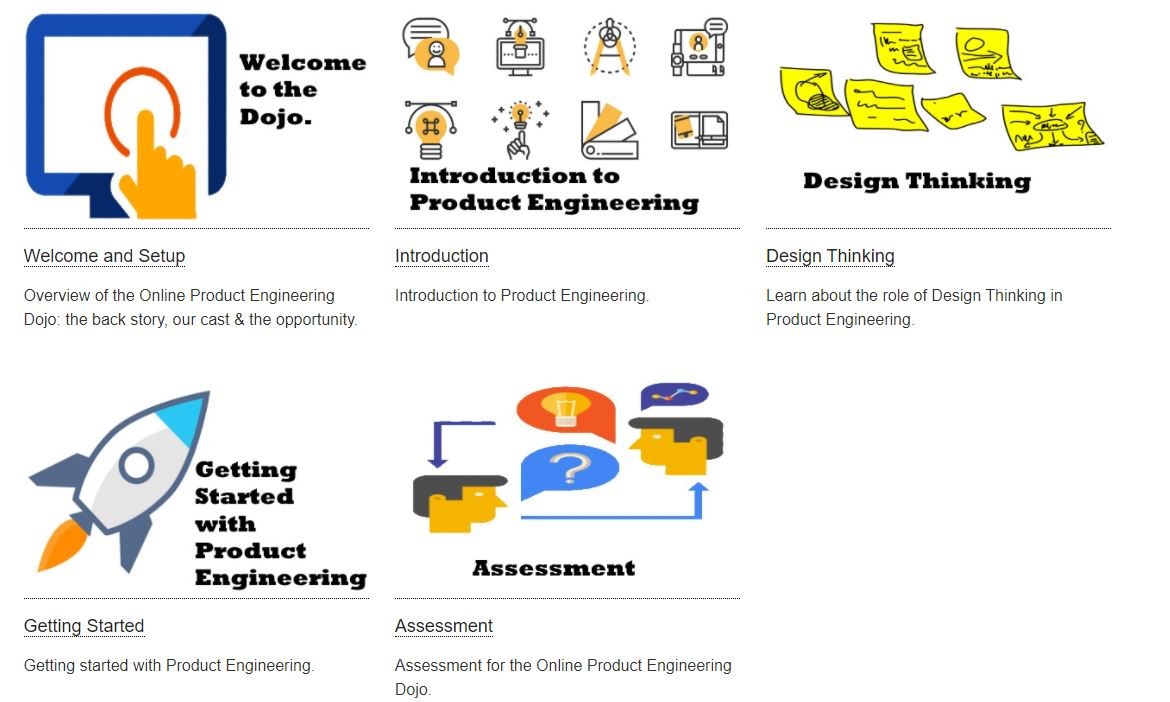
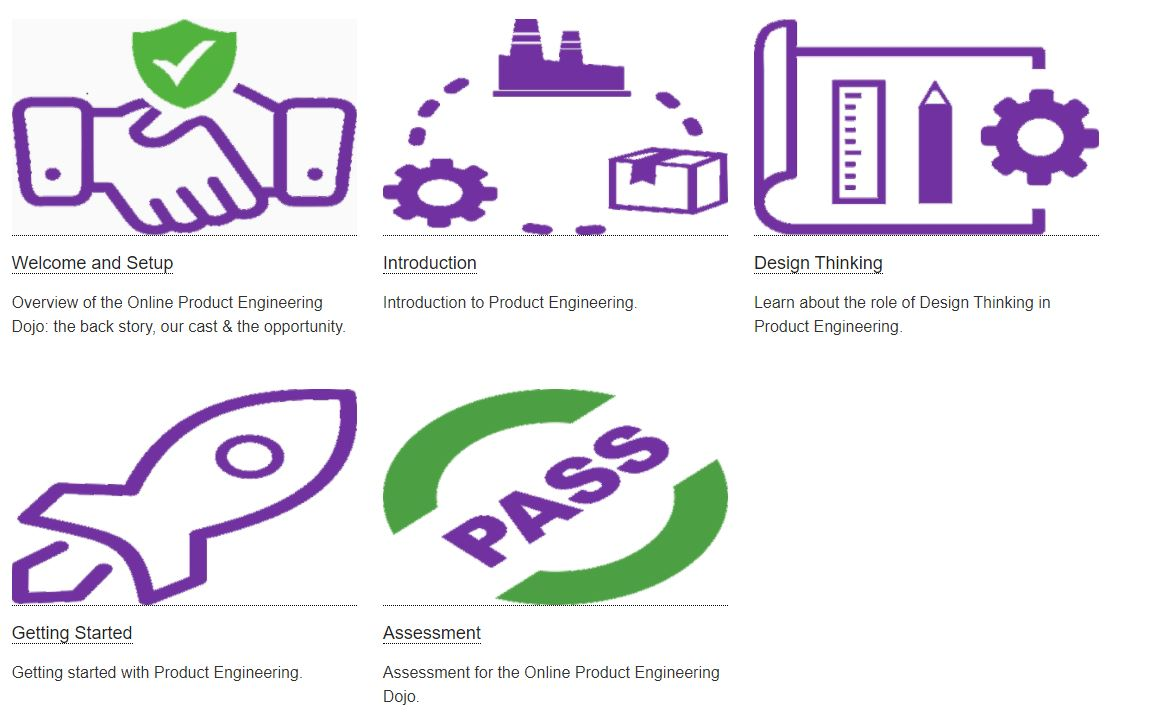
Fixed broken links (#4)
* Update and rename 2021-03-31-os1-welcome.md to 2021-03-31-pe1-welcome.md

* Update and rename 2021-03-31-os2-introduction.md to 2021-03-31-pe2-introduction.md

* Update and rename 2021-03-31-os3-design-thinking.md to 2021-03-31-pe3-design-thinking.md

* Update and rename 2021-03-31-os4-getting-started.md to 2021-03-31-pe4-getting-started.md

* Rename 2021-03-31-os5-assessment.md to 2021-03-31-pe5-assessment.md

* Delete modules.jpg

* Add files via upload

* Update README.md

diff --git a/_posts/modules/2021-03-31-pe1-welcome.md b/_posts/modules/2021-03-31-pe1-welcome.md
@@ -1,17 +1,17 @@
 ---
 layout: katacoda-fs
-title: "Design Thinking"
+title: "Welcome and Setup"
 categories: katacoda
-excerpt: "Learn about the role of Design Thinking in Product Engineering."
+excerpt: "Overview of the Online Product Engineering Dojo: the back story, our cast & the opportunity."
 tags: [online-pe-dojo]
 image:
-  teaser: design.thinking.png
+  teaser: welcome.png
 share: true
-order: 110
+order: 100
 walkthrough: false
 
-katacoda_scenario: design-thinking
-katacoda_next_scenario: os4-getting-started
+katacoda_scenario: welcome
+katacoda_next_scenario: pe2-introduction
 ---
 
 <script src="//katacoda.com/embed.js"></script>

diff --git a/_posts/modules/2021-03-31-pe4-getting-started.md b/_posts/modules/2021-03-31-pe4-getting-started.md
@@ -1,17 +1,17 @@
 ---
 layout: katacoda-fs
-title: "Welcome and Setup"
+title: "Getting Started"
 categories: katacoda
-excerpt: "Overview of the Online Product Engineering Dojo: the back story, our cast & the opportunity."
+excerpt: "Getting started with Product Engineering."
 tags: [online-pe-dojo]
 image:
-  teaser: welcome.png
+  teaser: getting.started.png
 share: true
-order: 100
+order: 120
 walkthrough: false
 
-katacoda_scenario: welcome
-katacoda_next_scenario: os2-introduction
+katacoda_scenario: getting-started
+katacoda_next_scenario: pe5-assignment
 ---
 
 <script src="//katacoda.com/embed.js"></script>

diff --git a/_posts/modules/2021-03-31-pe3-design-thinking.md b/_posts/modules/2021-03-31-pe3-design-thinking.md
@@ -1,17 +1,17 @@
 ---
 layout: katacoda-fs
-title: "Getting Started"
+title: "Design Thinking"
 categories: katacoda
-excerpt: "Getting started with Product Engineering."
+excerpt: "Learn about the role of Design Thinking in Product Engineering."
 tags: [online-pe-dojo]
 image:
-  teaser: getting.started.png
+  teaser: design.thinking.png
 share: true
-order: 120
+order: 110
 walkthrough: false
 
-katacoda_scenario: getting-started
-katacoda_next_scenario: os5-assignment
+katacoda_scenario: design-thinking
+katacoda_next_scenario: pe4-getting-started
 ---
 
 <script src="//katacoda.com/embed.js"></script>

diff --git a/README.md b/README.md
@@ -2,7 +2,7 @@
 
 This repository contains the Online Product Engineering Dojo website.
 
-TheOnline  Product Engineering Dojo is a set of interactive modules which cover Product Engineering culture and practices.
+The Online Product Engineering Dojo is a set of interactive modules which cover Product Engineering culture and practices.
 
 The website is hosted directly from this repository you can access the website at [https://dxc-technology.github.io/about-pe-dojo/](https://dxc-technology.github.io/about-pe-dojo/).
 

diff --git a/_posts/modules/2021-03-31-pe2-introduction.md b/_posts/modules/2021-03-31-pe2-introduction.md
@@ -11,7 +11,7 @@ order: 105
 walkthrough: false
 
 katacoda_scenario: introduction
-katacoda_next_scenario: os3-design-thinking
+katacoda_next_scenario: pe3-design-thinking
 ---
 
 <script src="//katacoda.com/embed.js"></script>
